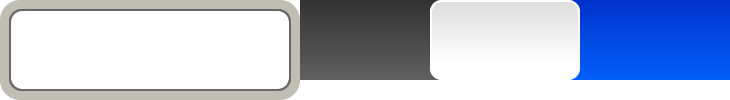
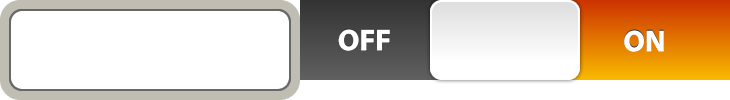
MSIE and pngfix

Changed region(s): [[0.6027, 0.0, 1.0, 0.84], [0.4521, 0.27, 0.5425, 0.51]]

diff --git a/jquery.sliderswitch.js b/jquery.sliderswitch.js
@@ -22,9 +22,45 @@
 				nowPosX[0] = ((fx.end[0] - fx.start[0]) * fx.pos) + fx.start[0] + fx.unit[0];
 				nowPosX[1] = ((fx.end[1] - fx.start[1]) * fx.pos) + fx.start[1] + fx.unit[1];           
 				fx.elem.style.backgroundPosition = nowPosX[0]+' '+nowPosX[1];
+				$(fx.elem).fixBackground();
 			}
 		});
 	}
+
+	$.fn.fixBackground = function() {
+		if($.browser.msie) {
+			$(this).each(function() {
+				var e = $(this);
+				var m = e.css("backgroundImage").match(/url\(([^\)]+)\)/);
+				var p = $.map(e.css("backgroundPosition").split(" "), function(a) {
+					return parseFloat(a);
+				});
+				var bg = e.data("fixBackground");
+				if(!bg) {
+					if(!m) {
+						return;
+					}
+					bg = $("<div/>");
+					e.data("fixBackground", bg)
+						.prepend(bg)
+						.css({
+							backgroundImage: "none",
+							overflow: "hidden",
+							position: (e.css("position") == "default") ? "relative" : e.css("position")
+						});
+				}
+				bg.css({	
+					position: "absolute",
+					width: e.innerWidth() + "px",
+					height: e.innerHeight() + "px",
+					left: p[0] + "px",
+					top: p[1] + "px",
+					filter: m ? "progid:DXImageTransform.Microsoft.AlphaImageLoader(enabled='true', src='" + m[1] + "')" : bg.css("filter")
+				});
+			});
+		}
+		return $(this);
+	};
 
 	$.fn.slideswitch = function(options) {
 		var slideswitch = $($(this)[0]).data("slideswitch");
@@ -64,20 +100,23 @@
 				var frame = $("<div/>")
 					.addClass(options.frameClass)
 					.css(options.frameCSS)
-					.css({position: "absolute"})
+					.css({position: "absolute", overflow: "hidden"})
 					.append(sliderWrapper)
-					.appendTo(placeholder);
+					.appendTo(placeholder)
+					.fixBackground();
 				var slider = $("<div/>")
 					.addClass(options.sliderClass)
 					.css(options.sliderCSS)
 					.css({
 						position: "absolute",
+						overflow: "hidden",
 						left: frame.css("paddingLeft"),
 						top: frame.css("paddingTop")
 					})
 					.width(frame.width())
 					.height(frame.height())
-					.prependTo(placeholder);
+					.prependTo(placeholder)
+					.fixBackground();
 
 				var sliderPosition, sliderAnimating = false;
 				var initialSliderPosition = $.map(slider.css("backgroundPosition").split(" "), function(a) {
@@ -100,6 +139,7 @@
 						sliderAnimating = true;
 					} else {
 						slider.css({backgroundPosition: backgroundPosition});
+						slider.fixBackground();
 					}
 				}
 

diff --git a/index.html b/index.html
@@ -20,7 +20,7 @@
 	top: 100px;
 }
 </style>
-<title>switch</title>
+<title>slideswitch demo</title>
 </head>
 
 <body>
